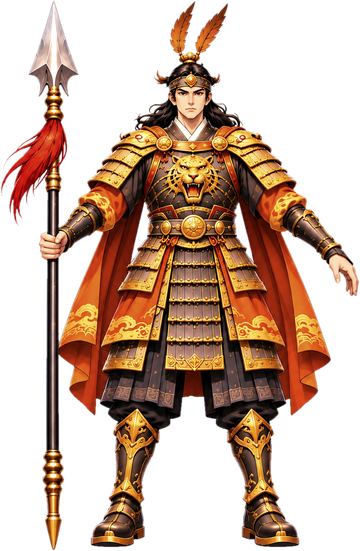
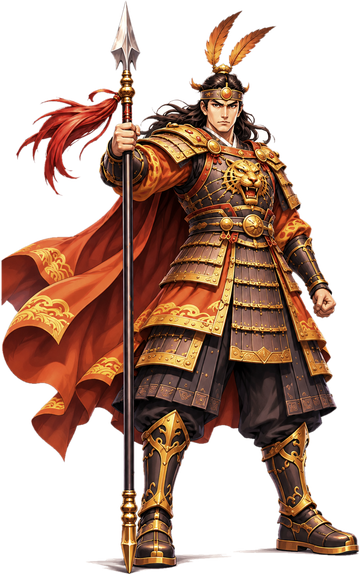
ui: hero select cards use signature-pose art instead of the A-pose sheets
Sources assets/concept/redesign/heroes/<hero>_pose.png (1024x1536); make_hero_cards.py prefers a _pose file
and falls back to the A-pose (kept for Meshy). Ink-wash tone as before; 사임당 recoloured (ivory skirt, soft pink).
Image-only change; full test run follows with the next merge (Meshy bakes are using the project now).

diff --git a/tools/art/make_hero_cards.py b/tools/art/make_hero_cards.py
@@ -1,7 +1,7 @@
 """영웅 고르기 카드 그림 만들기: 새 디자인 원본(흰 바탕)에서 배경을 지우고 카드 크기로 줄인다.
 
   python tools/art/make_hero_cards.py [--ink] [--out <폴더>]
-원본: assets/concept/redesign/heroes/<영웅>.png (1254x1254, 흰 바탕, GPT)
+원본: assets/concept/redesign/heroes/<영웅>_pose.png (대표 자세, 1024x1536) — 없으면 <영웅>.png (A자세, 3D용)
 결과: assets/ui/heroes/<영웅>.png (가로 360, 투명 바탕) — --out을 주면 그 폴더에 (비교용)
 --ink: 입장 그림(수묵)과 어울리게 색을 조금 빼고 한지 빛으로 바랜다.
 - 배경은 가장자리에서 이어진 흰색 + 둘러싸인 큰 순백 구멍을 지운다 (그늘 있는 흰 천은 남는다).
@@ -64,7 +64,10 @@ def main() -> None:
     a = ap.parse_args()
     os.makedirs(a.out, exist_ok=True)
     for h in HEROES:
-        img = cut_out(Image.open(os.path.join(ROOT, f"assets/concept/redesign/heroes/{h}.png")))
+        src = os.path.join(ROOT, f"assets/concept/redesign/heroes/{h}_pose.png")  # 대표 자세 그림이 있으면 그것
+        if not os.path.exists(src):
+            src = os.path.join(ROOT, f"assets/concept/redesign/heroes/{h}.png")  # 없으면 A자세 (3D용)
+        img = cut_out(Image.open(src))
         if a.ink:
             img = ink_tone(img)
         img = img.resize((WIDTH, round(img.height * WIDTH / img.width)), Image.LANCZOS)
